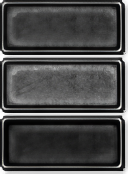
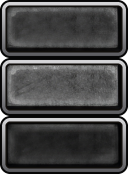
feat(ui-hd): round blank buttons (guild, shop and dialog buttons); prefer the .tga twin for shared names

diff --git a/tools/ui_hd/reframe.py b/tools/ui_hd/reframe.py
@@ -43,6 +43,10 @@ SPECS = {
     "newui_chainfo_btn_quest.OZT": {"cells": 2, "cell_height": 29, "rect": (0, 0, 36, 29), "crop": (4, 4, 32, 25), "transparent_corners": True},
     "newui_chainfo_btn_pet.OZT": {"cells": 2, "cell_height": 29, "rect": (0, 0, 36, 29), "crop": (4, 4, 32, 25), "transparent_corners": True},
     "newui_chainfo_btn_master.OZT": {"cells": 2, "cell_height": 29, "rect": (0, 0, 36, 29), "crop": (4, 4, 32, 25), "transparent_corners": True},
+    "newui_btn_empty.OZT": {"cells": 3, "cell_height": 29, "rect": (0, 0, 108, 29), "crop": (4, 4, 104, 25), "transparent_corners": True},
+    "newui_btn_empty_big.OZT": {"cells": 3, "cell_height": 29, "rect": (0, 0, 180, 29), "crop": (4, 4, 176, 25), "transparent_corners": True},
+    "newui_btn_empty_small.OZT": {"cells": 3, "cell_height": 29, "rect": (0, 0, 64, 29), "crop": (4, 4, 60, 25), "transparent_corners": True},
+    "newui_btn_empty_very_small.OZT": {"cells": 3, "cell_height": 23, "rect": (0, 0, 54, 23), "crop": (4, 4, 50, 19), "transparent_corners": True},
     "newui_skillbox.OZJ": {"cells": 1, "cell_height": 38, "rect": (0, 0, 32, 38), "crop": (4, 4, 28, 34), "transparent_corners": True},
     "newui_skillbox2.OZJ": {"cells": 1, "cell_height": 38, "rect": (0, 0, 32, 38), "crop": (4, 4, 28, 34), "transparent_corners": True},
 }

diff --git a/tools/ui_hd/generate.py b/tools/ui_hd/generate.py
@@ -58,7 +58,10 @@ def all_textures():
     counts = {}
     for relative in rows:
         counts[stem_key(relative)] = counts.get(stem_key(relative), 0) + 1
-    return [relative for relative in rows if counts[stem_key(relative)] == 1]
+    # Two files with the same stem share one HD path. The game loads the .tga (OZT) one for the shared names, so it keeps
+    # the HD art; the unused .jpg (OZJ) twin gets none.
+    return [relative for relative in rows
+            if counts[stem_key(relative)] == 1 or relative.lower().endswith(".ozt")]
 
 
 def drift(original, master):
